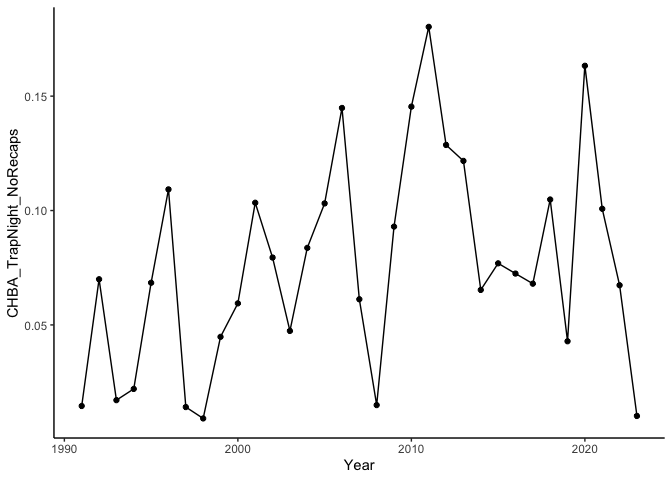
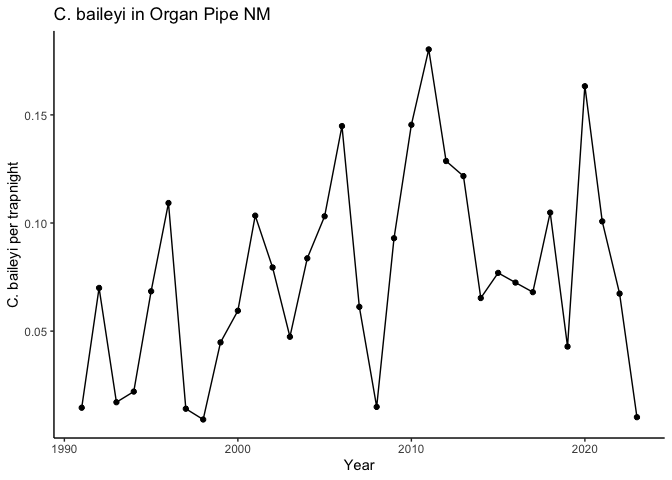
update github doc

diff --git a/scripts/data_exploration.md b/scripts/data_exploration.md
@@ -1,14 +1,17 @@
 # Data Exploration
 Ellen Bledsoe
-2025-02-25
+2025-02-27
 
-## Data Exploration
+# Data Exploration
 
 First, load packages
 
 ``` r
 library(tidyverse)
+library(patchwork)
 ```
+
+## Organ Pipe NM
 
 ### Read in Data Files
 
@@ -167,10 +170,92 @@ ggplot(baileyi_trapnight, aes(Year, NoRecaps)) +
 #### *C. baileyi* individuals per trap night
 
 ``` r
-ggplot(baileyi_trapnight, aes(Year, CHBA_TrapNight_NoRecaps)) +
+orpi <- ggplot(baileyi_trapnight, aes(Year, CHBA_TrapNight_NoRecaps)) +
   geom_point() +
   geom_line() +
+  labs(title = "C. baileyi in Organ Pipe NM",
+       y = "C. baileyi per trapnight") +
   theme_classic()
+orpi
 ```
 
 ![](data_exploration_files/figure-commonmark/unnamed-chunk-8-1.png)
+
+## Saguaro NP
+
+### Read in Data
+
+Rodent data from 1991-2008
+
+``` r
+saguaro_rodents <- read_csv("../data/SaguaroNP/saguaro_rodents.csv", 
+                            skip = 5, col_names = TRUE) |> 
+  slice(-1)
+```
+
+    Warning: One or more parsing issues, call `problems()` on your data frame for details,
+    e.g.:
+      dat <- vroom(...)
+      problems(dat)
+
+Get data “cleaned” up
+
+``` r
+saguaro_rodents <- saguaro_rodents |> 
+  mutate(Date = dmy(`Trap Check Date`),
+         Year = year(Date),
+         `Recapture?` = toupper(`Recapture?`))
+```
+
+Check number of trapping events per year
+
+``` r
+trap_nights <- saguaro_rodents |> 
+  group_by(Year) |> 
+  distinct(Date) |> 
+  summarise(nights = n()) 
+```
+
+Summarize baileys
+
+``` r
+CHBA_per_trapnight <- saguaro_rodents |> 
+  filter(Species == "Chaetodipus baileyi", 
+         `Recapture?` == "N") |> 
+  group_by(Year) |> 
+  summarise(abund = n()) |> 
+  # calculate baileys per trap night
+  left_join(trap_nights) |> 
+  mutate(trap_nights = nights * 148, # 148 traps in web design each night
+         CHBA_per_trapnight = abund/trap_nights) 
+```
+
+    Joining with `by = join_by(Year)`
+
+### Plotting
+
+``` r
+sagu <- ggplot(CHBA_per_trapnight, aes(Year, CHBA_per_trapnight)) +
+  geom_point() +
+  geom_line() +
+    labs(title = "C. baileyi in Saguaro National Park",
+       y = "C. baileyi per trapnight") +
+  theme_classic()
+sagu
+```
+
+![](data_exploration_files/figure-commonmark/unnamed-chunk-13-1.png)
+
+## Compare ORPI and SAGU *C. baileyi* Data
+
+``` r
+orpi / sagu & scale_x_continuous(limits = c(1990, 2022))
+```
+
+    Warning: Removed 1 row containing missing values or values outside the scale range
+    (`geom_point()`).
+
+    Warning: Removed 1 row containing missing values or values outside the scale range
+    (`geom_line()`).
+
+![](data_exploration_files/figure-commonmark/unnamed-chunk-14-1.png)
